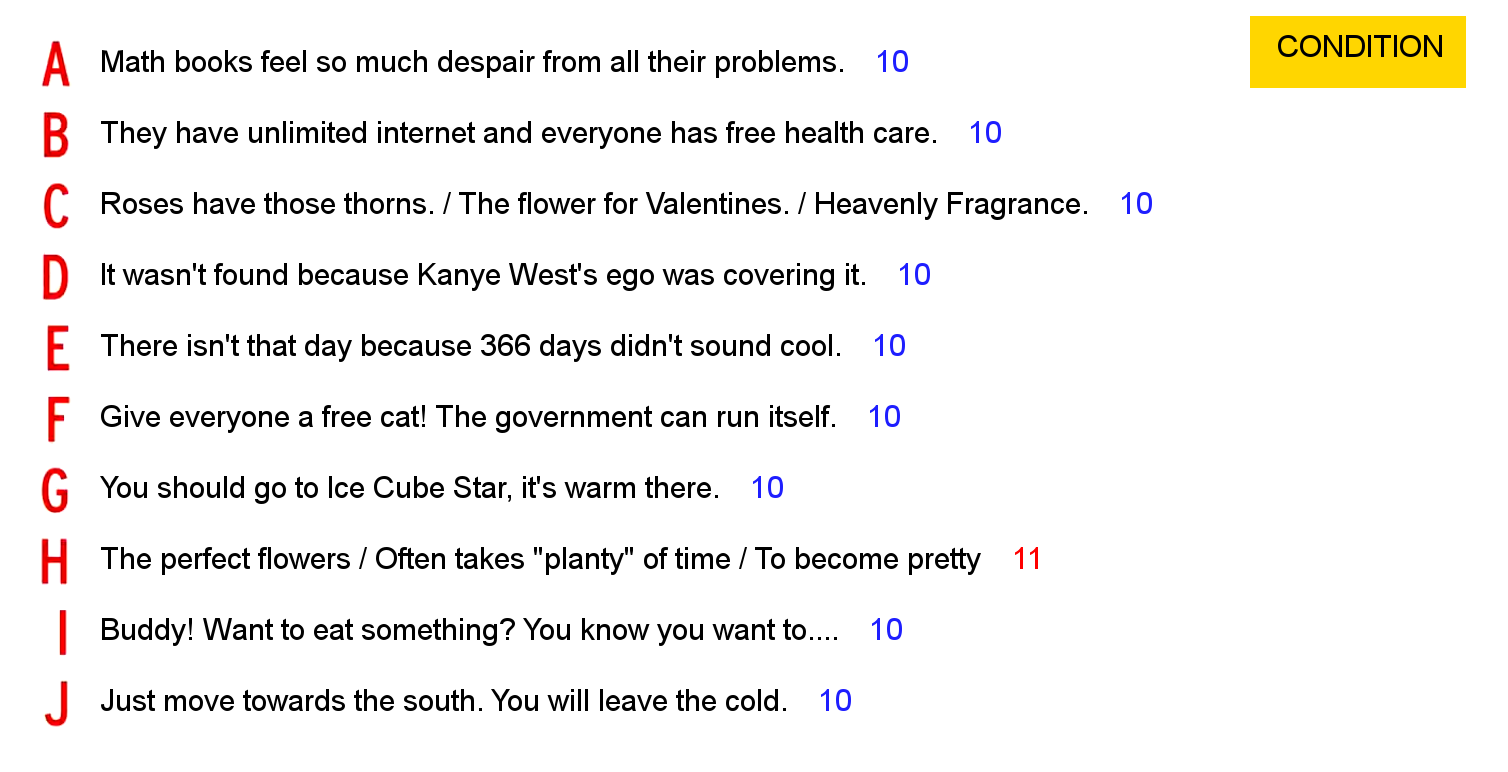
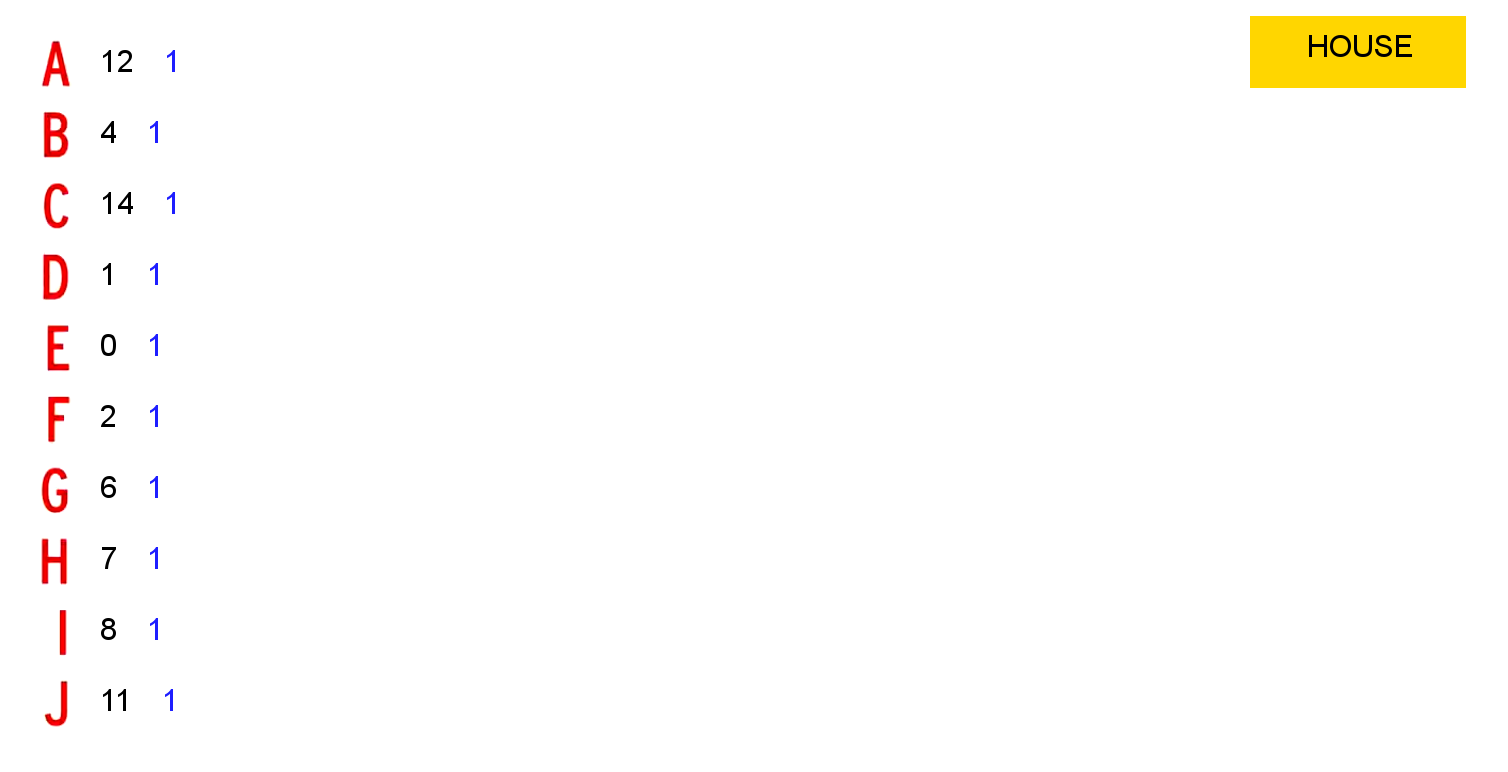
Better randomizer
All entries are guaranteed to be shown, setup some framework to keep track of voting cards

diff --git a/voteScreenGenerator.py b/voteScreenGenerator.py
@@ -1,0 +1,72 @@
+from PIL import Image, ImageDraw, ImageFont
+import random, argparse, re
+
+
+def main():
+	parser = argparse.ArgumentParser()
+	parser.add_argument('input')
+	parser.add_argument("-i", "--iterations", nargs='?', const=10, default=10)
+	args = parser.parse_args()
+	its=int(args.iterations)
+	
+	keylist = open('./resources/words.txt','r').read().split('\n')
+	keyorder = random.sample(range(len(keylist)),its)
+	
+	submissions = open(args.input,'r').read().split('\n')
+	submissionCount = len(submissions)
+	voteList = []
+	voteNumber = 0
+	
+	for randomListNumber in range(int(10*its/len(submissions))+1):
+		randomSubmissionOrder = list(range(submissionCount))
+		random.shuffle(randomSubmissionOrder)
+		voteList.append(randomSubmissionOrder)
+		
+	print(str(voteList))
+	
+	arial = ImageFont.truetype('./resources/arial.ttf',30)
+	
+	for iteration in range(its):
+
+		base = Image.open('./resources/base.png').convert('RGB')
+		drawer = ImageDraw.Draw(base)
+		existingEntries = []
+		
+		for i in range(10):
+			
+			submissionNumber = voteList[int(voteNumber/submissionCount)][voteNumber%submissionCount]
+			
+			while submissionNumber in existingEntries:
+				voteList[int(voteNumber/submissionCount)].remove(submissionNumber)
+				voteList[int(voteNumber/submissionCount)].append(submissionNumber)
+				submissionNumber = voteList[int(voteNumber/submissionCount)][voteNumber%submissionCount]
+				
+			phrase = submissions[submissionNumber]
+		
+			drawer.text((100,71*i+45), phrase, font=arial, fill=(0,0,0))
+			distance = 130+drawer.textsize(phrase,arial)[0]
+			indivWords = re.sub('/[^a-zA-Z0-9 ]/','',phrase).split(' ')
+			wordCount = 0
+			
+			for string in indivWords:
+				if re.search('[a-zA-Z0-9]',string):
+					wordCount +=1
+			
+			if wordCount >10:
+				drawer.text((distance,71*i+45), str(wordCount), font=arial, fill=(255,0,0))
+			else:
+				drawer.text((distance,71*i+45), str(wordCount), font=arial, fill=(30,30,255))
+			
+			existingEntries.append(submissionNumber)
+			voteNumber+=1
+			
+		word = keylist[keyorder[iteration]].upper()
+		w = drawer.textsize(word,arial)[0]
+		drawer.text((1360-int(w/2), 30), word, font=arial, fill="black")
+		
+		base.save('./screens/'+str(iteration)+'.png')
+	
+	
+	
+if __name__ == '__main__':
+	main()
